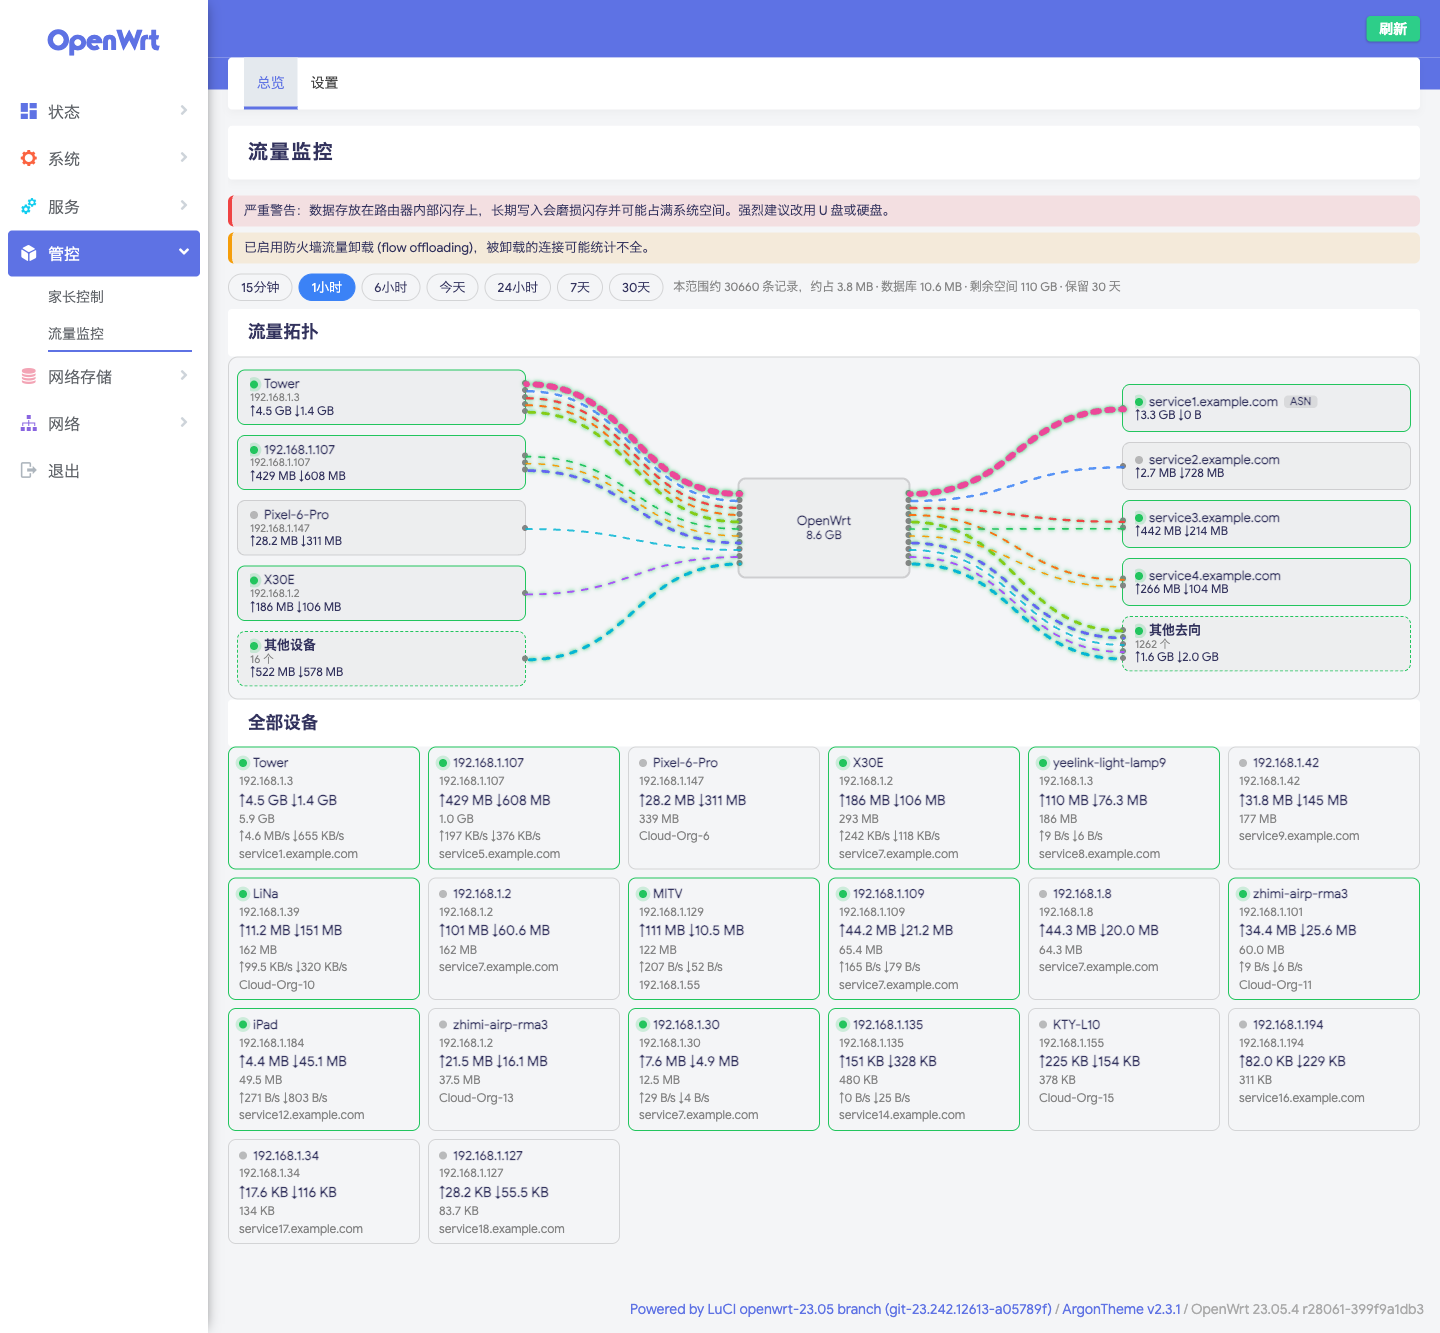
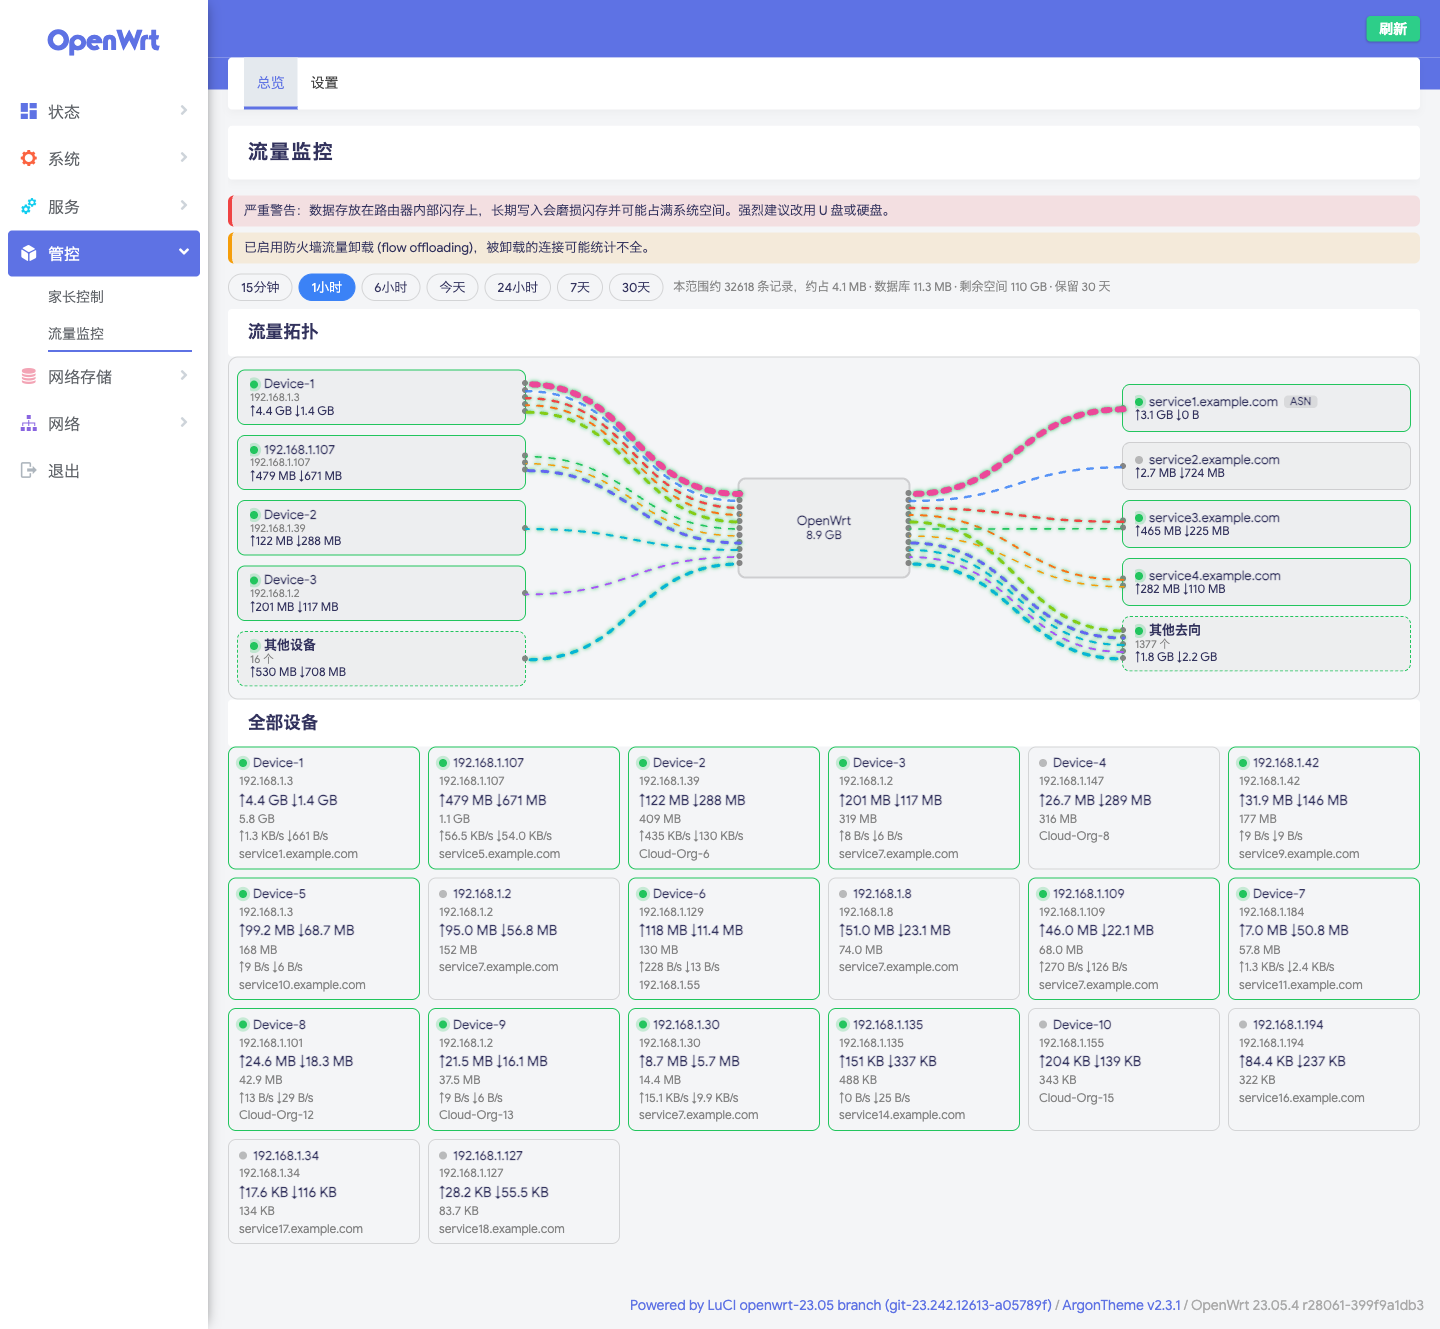
docs: redact device names in README screenshots
Replace real hostnames with Device-N alongside existing IP/MAC and
destination scrubbing in overview, settings, and device captures.

diff --git a/README.md b/README.md
@@ -17,7 +17,7 @@ OpenWrt / ImmortalWrt / iStoreOS LuCI 插件：按局域网设备统计「谁访
 
 ## 截图
 
-截图已脱敏：局域网 IP → `192.168.1.x`，外网 IP → `203.0.113.x`，MAC 遮盖；设备名去掉尾部硬件 ID（保留如 `X30E`、`Pixel-6-Pro`）；**右侧目的地 / 会话目标 / 设备卡片主目标**中的真实域名与 ASN 组织名替换为 `serviceN.example.com` / `Cloud-Org-N`。
+截图已脱敏：局域网 IP → `192.168.1.x`，外网 IP → `203.0.113.x`，MAC 遮盖；设备名 → `Device-N`；右侧目的地 / 会话目标 / 设备卡片主目标中的真实域名与 ASN 组织名 → `serviceN.example.com` / `Cloud-Org-N`。
 
 ### 总览（拓扑 + 设备网格）
 
